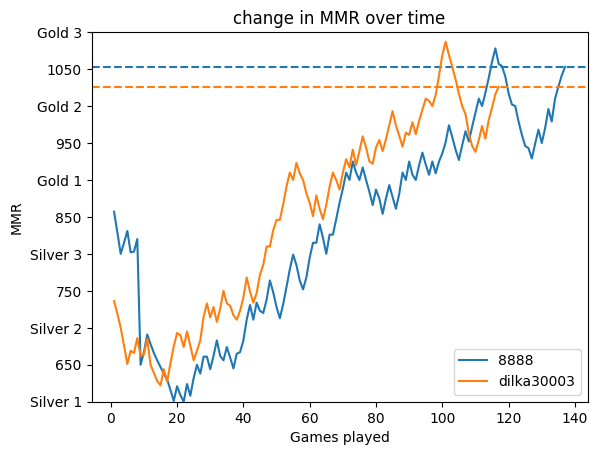
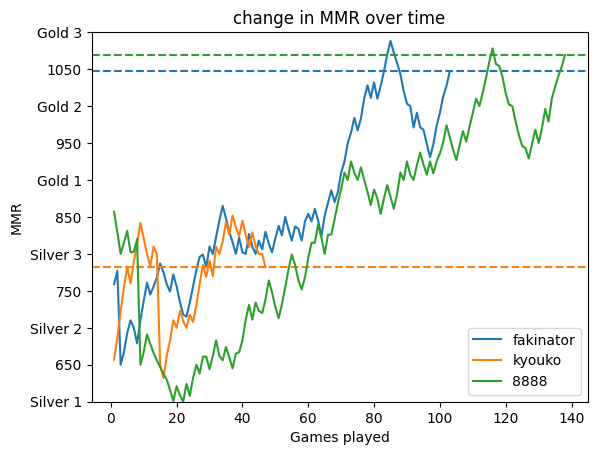
made graph command a bit more informative

diff --git a/ritsu.py b/ritsu.py
@@ -2,9 +2,7 @@ import discord
 from discord.ext import commands
 import configparser
 import newvalorant
-import valorant
-import elo_history_updater
-import playerclass
+import graphs
 from discord_slash import SlashCommand
 from discord_slash.utils.manage_commands import create_option, create_choice
 
@@ -25,200 +23,52 @@ guild_ids = [731539222141468673]
 async def on_ready():
     print("it started working")
 
-@slash.slash(description="MMR history list",
+@slash.slash(description="graph",
              guild_ids=guild_ids,
              options = [
-             create_option(name="username", description="enter username (ign#tag)", option_type=3, required=True)])
-async def newelolist(ctx, username=""):
+             create_option(name="usernames", description="Enter username(s), seperate with commas for more than one", option_type=3, required=True)])
+async def newgraph(ctx, usernames=""):
+    users = usernames.split(',')
     
-    username = username.split('#')[0].lower()
-    elolist = newvalorant.get_elo_list(username)
-    if elolist == None:
-        await ctx.send("No comp games recorded")
-    
-    elif elolist == False:
-        await ctx.send("Player not found")
-    
+    for i in range(0, len(users)):
+        users[i] = users[i].split('#')[0].lower().strip()
+
+    if len(users) == 1:
+        flag = graphs.make_graph(users[0])
+        if flag == False:
+            await ctx.send("Player not found")
+
+        elif flag == None:
+            await ctx.send("Not enough data to plot graph")
+
+        else:
+            with open(f"/home/ubuntu/discord_bot/elo_graphs/{users[0]}.png", 'rb') as f:
+                picture = discord.File(f)
+                await ctx.send(file=picture)
+
     else:
-        await ctx.send("```\n" + elolist + "\n```")
-
-@slash.slash(description="Ranked statistics for all acts",
-             guild_ids=guild_ids,
-             options = [
-             create_option(name="username", description="enter username (ign#tag)", option_type=3, required=True)])
-async def newstats(ctx, username=""):
-
-    the_message = await ctx.send("fetching stats...")
-    username = username.split('#')
-
-    ign = username[0].lower()
-
-    if len(username) == 2:
-        tag = username[1].lower()
-    else:
-        tag = ""
-
-    fields = newvalorant.stats(ign, tag)
-
-    if type(fields) == str:
-        await the_message.edit(content=fields)
-    
-    else:
-        data = fields[0]
-        card = fields[1]
-        embed=discord.Embed(title = "Competitive Statistics", description="", color=0x00f900)
-        embed.set_author(name=ign, url = "https://youtu.be/MtN1YnoL46Q", icon_url=card)
-
-        for field in data:
-            embed.add_field(name = field[0], value = field[1], inline = True)
-
-        await the_message.edit(contents = "", embed = embed)
-
-@slash.slash(description="Valorant Leaderboards",
-             guild_ids=guild_ids,
-             options = [
-             create_option(name="options", description="Region/options for leaderboard (leave blank for local)", option_type=3, required=False, 
-                        choices=[create_choice(name="Update local leaderboard",value="update"), create_choice(name="Asia Pacific",value="ap"),
-                        create_choice(name="Europe",value="eu"), create_choice(name="Korea",value="kr"),
-                        create_choice(name="North America",value="na")])])
-async def newleaderboard(ctx, options=""):
-    
-    if options == "":
-
-        log_file = open("/home/ubuntu/discord_bot/elo_history/run_check.out",'r')
-        lines = log_file.readlines()
-        log_file.close()
-
-        leaderboard = "Last updated at " + lines[-1].split(' ')[4] +'\n'
-        newvalorant.local_leaderboard()
-        f = open("leaderboard.txt", 'r')
-        for x in f:
-            leaderboard += x
-        f.close()
-
-        await ctx.send("```\n" + leaderboard + "\n```")
-    
-    if options == "update":
-        the_message = await ctx.send("this is gonna take a while...")
-        elo_history_updater.update_all_elo_history()
-        newvalorant.local_leaderboard()
-        leaderboard = ""
-        f = open("leaderboard.txt", "r")
-        for x in f:
-            leaderboard += x
-        f.close()
-        
-        await the_message.edit(content="```\n" + leaderboard + "\n```")
-
-    if options == "ap" or options == "eu" or options == "kr" or options == "na":
-        
-        the_message = await ctx.send("fetching leaderboard...")
-        rleaderboard = newvalorant.region_leaderboard(options)
-
-        if rleaderboard:
-            await the_message.edit(content="```\n" + rleaderboard + "\n```")
-
-@slash.slash(description="Add player to database for leaderboard and stuff",
-             guild_ids=guild_ids,
-             options = [
-             create_option(name="username", description="enter username (ign#tag)", option_type=3, required=True)])
-async def newadd(ctx, username=""):
-
-    username = username.split('#')
-
-    if len(username) == 2:
         the_message = await ctx.send("please wait...")
-        msg = valorant.add_player(username[0].lower(), username[1].lower())
-        await the_message.edit(contents=msg)
+        flag = graphs.multigraph(users)
+        msg = ""
+        if len(flag[0]) > 0:
+            msg = "Players not found: "
+            for elem in flag[0]:
+                msg += elem + ", "
+            msg = msg[:-2]
 
-    else:
-        await ctx.send("Player not found, check syntax: (ign#tag)")
+        if len(flag[1]) > 0:
+            msg += '\n Players with not enough data to plot graph: '
+            for elem in flag[1]:
+                msg += elem + ", "
+            msg = msg[:-2]
 
-@slash.slash(description="Remove player from list",
-             guild_ids=guild_ids,
-             options = [
-             create_option(name="username", description="enter username (ign#tag)", option_type=3, required=True)])
-async def newremove(ctx, username=""):
-
-    if ctx.author.id == 410771947522359296:
-        username = username.split('#')
-        if len(username) == 2:
-            msg = newvalorant.remove_player(username[0].lower(), username[1].lower())
-            await ctx.send(msg)
-        else:
-            await ctx.send("Player not found, check syntax: (ign#tag)")
-            
-    else:
-        await ctx.send("no.")
-
-@client.command()
-async def newgettag(ctx, *, ign):
-    ign = ign.lower()
-    if not newvalorant.get_tag(ign):
-        await ctx.send("Player not in database. add using /add")
-    else:
-        await ctx.send(f'{ign}#{newvalorant.get_tag(ign)}')
-
-@client.command()
-async def banner(ctx, *, username):
-
-    username = username.split('#')
-    ign = username[0].lower()
-
-    if len(username) == 2:
-        tag = username[1].lower()
-    else:
-        tag = newvalorant.get_tag(ign)
-
-    if not tag:
-        await ctx.send("Player not found, check syntax: (ign#tag)")
-    
-    else:
-        msg = newvalorant.get_banner(ign, tag)
-
-        if type(msg) == str:
-            await ctx.send(msg)
+        if msg == "":
+            with open("/home/ubuntu/discord_bot/elo_graphs/multigraph.png", 'rb') as f:
+                picture = discord.File(f)
+                await the_message.edit(content="", file=picture)
         
         else:
-            await ctx.send(file=discord.File('banner.png'))
-
-@slash.slash(description="Changing your in-game name",
-             guild_ids=guild_ids,
-             options = [
-             create_option(name="old_username", description="enter your old username", option_type=3, required=True),
-             create_option(name="new_username", description="enter your new username (user#tag)", option_type=3, required=True)])
-async def newnamechange(ctx, old_username="", new_username=""):
-
-    if ctx.author.id == 410771947522359296:
-
-        old = old_username.split('#')[0].lower()
-        new_username = new_username.split('#')
-
-        if len(new_username) != 2:
-            await ctx.send("check syntax: (ign#tag)")
-        
-        else:
-            the_message = await ctx.send("please wait...")
-            new_ign = new_username[0].lower()
-            new_tag = new_username[1].lower()
-
-            if valorant.account_check(new_ign, new_tag):
-                playerList = playerclass.PlayerList('playerlist.csv')
-                playerList.load()
-                if playerList.change_ign(old, new_ign, new_tag):
-                    playerList.save()
-                    await the_message.edit(content = f'{old} is now {new_ign}#{new_tag}')
-                
-                else:
-                    await the_message.edit(content = f'{old} not found in database, check player list using `$getcsv`')
-            
-            else:
-                await the_message.edit(content = f'{new_ign}#{new_tag} does not exist.')
-
-@slash.slash(description="Valorant Servers Status", guild_ids=guild_ids)
-async def newserverstatus(ctx):
-    the_message = await ctx.send("fetching statuses")
-    await the_message.edit(content = newvalorant.servercheck())
+            await the_message.edit(content=msg)
 
 @client.event
 async def on_message(message):

diff --git a/graphs.py b/graphs.py
@@ -20,29 +20,22 @@ def roundup(x):
 def rounddown(x):
     return int(math.floor(x / 100.0)) * 100
 
-def make_graph(username):
-    
-    playerlist = playerclass.PlayerList('playerlist.csv')
-    playerlist.load()
+def make_graph(ign):
 
-    tagline = ""
-    for player in playerlist.players:
-        if player.ign == username:
-            tagline = player.tag
-            break
+    tag = valorant.get_tag(ign)
     
-    if tagline == "":
+    if not tag:
         return False
 
-    thing = valorant.update_elo_history(username, tagline)
+    thing = valorant.update_database(ign, tag)
 
     if type(thing) == bool and thing == False:
         return False
 
-    if os.path.isfile('/home/ubuntu/discord_bot/elo_history/{}.txt'.format(username)) == False:
+    if os.path.isfile(f'/home/ubuntu/discord_bot/elo_history/{ign}.txt') == False:
         return False
     
-    file1 = open('/home/ubuntu/discord_bot/elo_history/{}.txt'.format(username), 'r')
+    file1 = open(f'/home/ubuntu/discord_bot/elo_history/{ign}.txt', 'r')
 
     y = [x.strip() for x in file1.readlines()]
     if len(y) == 2:
@@ -118,9 +111,9 @@ def make_graph(username):
     plt.axhline(y=y[-1], color=colour, linestyle='--')
     plt.xlabel('Games played')
     plt.ylabel('MMR')
-    plt.title(username + '\'s MMR over time')
+    plt.title(ign + '\'s MMR over time')
 
-    plt.savefig('/home/ubuntu/discord_bot/elo_graphs/{}.png'.format(username), bbox_inches="tight")
+    plt.savefig(f'/home/ubuntu/discord_bot/elo_graphs/{ign}.png', bbox_inches="tight")
 
     file1.close()
     plt.clf()
@@ -134,27 +127,29 @@ def multigraph(players):
     mostGames = 0
     yvalues = []
     xvalues = []
+    fail = [[], []]
 
-    for username in players:
-        if os.path.isfile(f'/home/ubuntu/discord_bot/elo_history/{username}.txt') == False:
-            return False
+    for ign in players:
+
+        if os.path.isfile(f'/home/ubuntu/discord_bot/elo_history/{ign}.txt') == False:
+            fail[0].append(ign)
+            continue
         
-        playerlist = playerclass.PlayerList('playerlist.csv')
-        playerlist.load()
 
-        tagline = ""
-        for player in playerlist.players:
-            if player.ign == username:
-                tagline = player.tag
-                break
+        tag = valorant.get_tag(ign)
 
-        valorant.update_elo_history(username, tagline)
+        if not tag:
+            fail[0].append(ign)
+            continue
+
+        valorant.update_database(ign, tag)
         
-        file1 = open(f'/home/ubuntu/discord_bot/elo_history/{username}.txt', 'r')
+        file1 = open(f'/home/ubuntu/discord_bot/elo_history/{ign}.txt', 'r')
 
         y = [x.strip() for x in file1.readlines()]
         if len(y) == 2:
-            return None
+            fail[1].append(ign)
+            continue
         y.pop(0)
         
         x = []
@@ -176,6 +171,8 @@ def multigraph(players):
 
         file1.close()
 
+    if len(fail[0]) + len(fail[1]) > 0:
+        return fail
 
     axes = plt.gca()
     axes.set_ylim([ymin,ymax])
@@ -220,8 +217,6 @@ def multigraph(players):
 
     file1.close()
     plt.clf()
-
-    return True
 
 if __name__ == "__main__":
     #multigraph(['8888','azatory','bento2','crossaxis','fade','fakinator', 'giroud', 'grovyle', 'imabandwagon', 'jokii', 'katchampion',

diff --git a/main.py b/main.py
@@ -156,17 +156,26 @@ async def graph(ctx, usernames=""):
     else:
         the_message = await ctx.send("please wait...")
         flag = graphs.multigraph(users)
-        
-        if flag == False:
-            await the_message.edit("Player not found")
+        msg = ""
+        if len(flag[0]) > 0:
+            msg = "Players not found: "
+            for elem in flag[0]:
+                msg += elem + ", "
+            msg = msg[:-2]
 
-        elif flag == None:
-            await the_message.edit("Not enough data to plot graph")
+        if len(flag[1]) > 0:
+            msg += '\n Players with not enough data to plot graph: '
+            for elem in flag[1]:
+                msg += elem + ", "
+            msg = msg[:-2]
 
-        else:
+        if msg == "":
             with open("/home/ubuntu/discord_bot/elo_graphs/multigraph.png", 'rb') as f:
                 picture = discord.File(f)
                 await the_message.edit(content="", file=picture)
+        
+        else:
+            await the_message.edit(content=msg)
 
 @slash.slash(description="Valorant Leaderboards",
              guild_ids=guild_ids,
